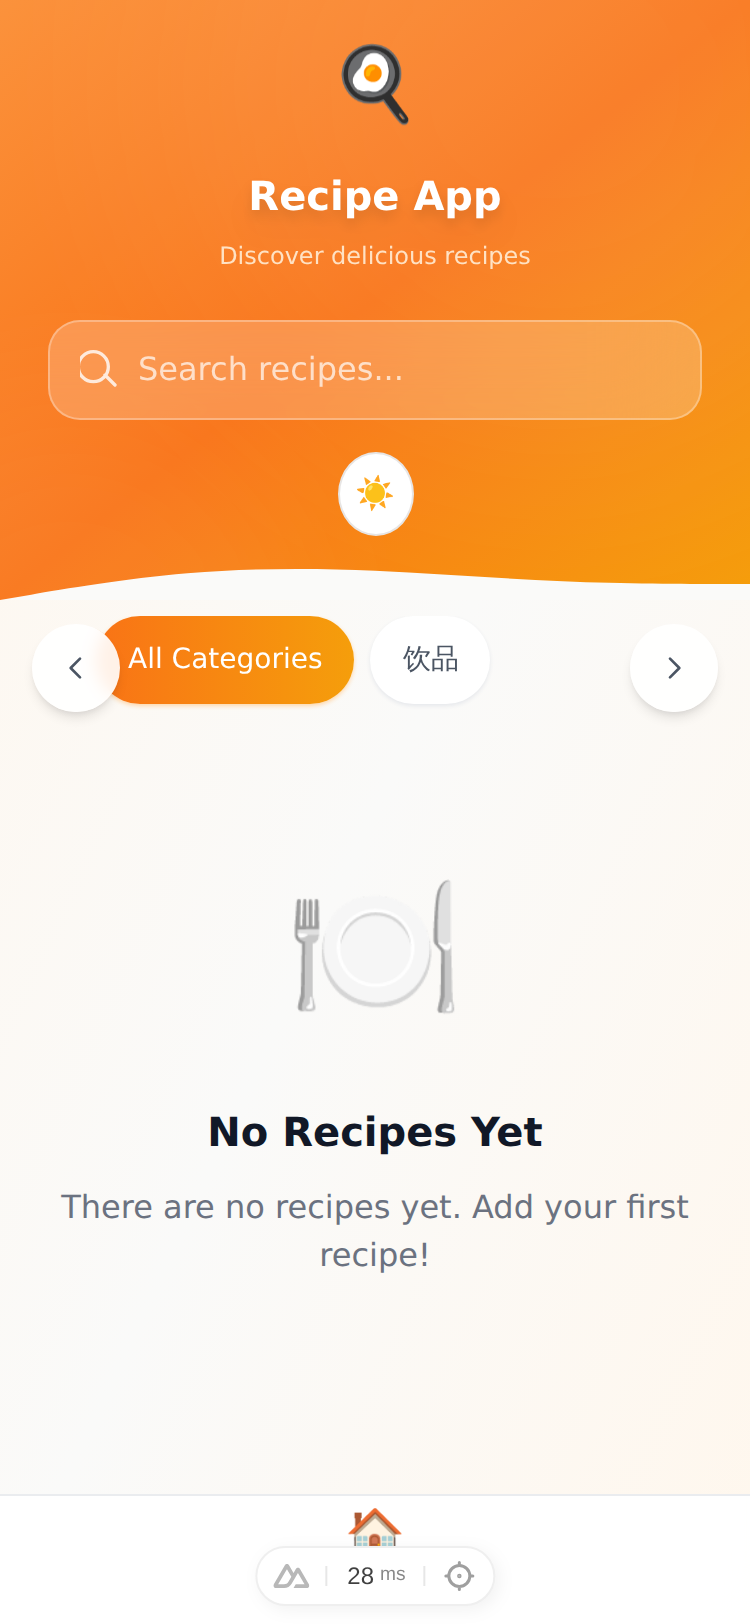
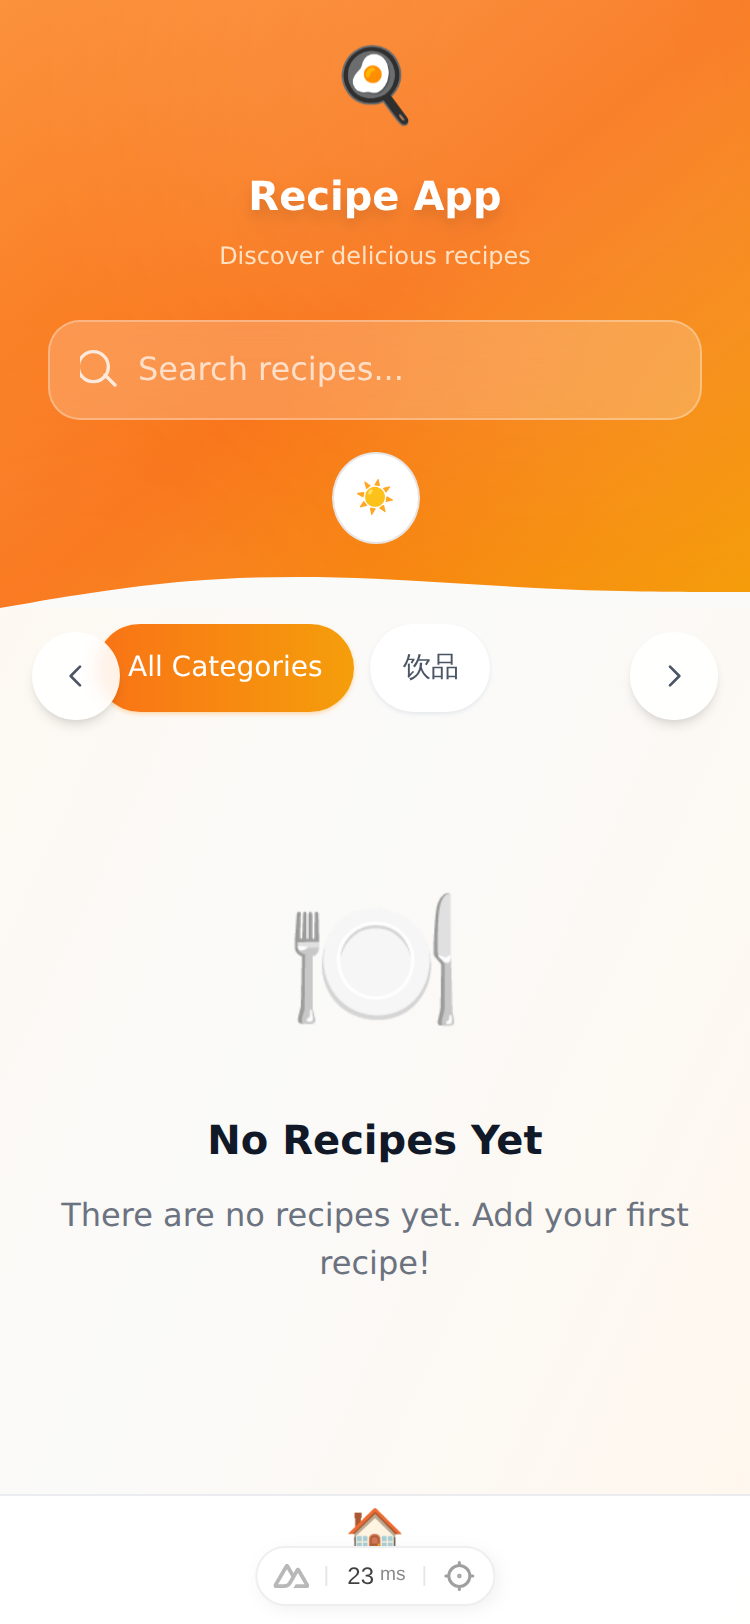
⚠ 完善移动端适配 任务: 完善移动端适配 时间: 2026-03-21 08:30:07 审查: REVIEW_needed 自动提交 by recipe-app-iterator.sh v3.0

diff --git a/web/app/pages/admin/index.vue b/web/app/pages/admin/index.vue
@@ -111,7 +111,7 @@ const difficultyLabel = (difficulty: string) => {
             </NuxtLink>
             <NuxtLink
               :to="localePath('/admin/recipes/new', locale)"
-              class="px-3 py-2 sm:px-4 bg-orange-600 text-white rounded-lg hover:bg-orange-700 transition-colors flex items-center gap-1 sm:gap-2 text-sm sm:text-base"
+              class="min-w-[44px] min-h-[44px] px-3 py-2 sm:px-4 bg-orange-600 text-white rounded-lg hover:bg-orange-700 transition-colors flex items-center justify-center gap-1 sm:gap-2 text-sm sm:text-base active:scale-95 touch-manipulation"
             >
               <span>+</span> <span class="hidden sm:inline">{{ t('admin.addRecipe') }}</span>
             </NuxtLink>
@@ -171,8 +171,9 @@ const difficultyLabel = (difficulty: string) => {
           <p class="text-gray-600">{{ t('admin.noRecipes') }}</p>
         </div>
 
-        <div v-else class="overflow-x-auto">
-          <table class="w-full">
+        <div v-else class="overflow-x-auto -mx-4 md:mx-0">
+          <!-- Desktop Table -->
+          <table class="hidden md:table w-full">
             <thead class="bg-gray-50 border-b border-gray-200">
               <tr>
                 <th class="px-6 py-3 text-left text-xs font-semibold text-gray-600 uppercase tracking-wider">
@@ -271,6 +272,77 @@ const difficultyLabel = (difficulty: string) => {
               </tr>
             </tbody>
           </table>
+
+          <!-- Mobile Card List -->
+          <div class="md:hidden divide-y divide-gray-200">
+            <div
+              v-for="recipe in recipes"
+              :key="recipe.id"
+              class="p-4 hover:bg-gray-50 transition-colors"
+            >
+              <div class="flex items-start gap-3">
+                <input 
+                  type="checkbox" 
+                  :checked="selectedRecipes.includes(recipe.id.toString())"
+                  @change="toggleSelect(recipe.id.toString())"
+                  class="mt-1 w-5 h-5 text-orange-600 rounded focus:ring-orange-500 flex-shrink-0"
+                >
+                <div class="w-16 h-16 bg-gradient-to-br from-orange-100 to-orange-200 rounded-lg overflow-hidden flex-shrink-0">
+                  <img
+                    v-if="recipe.imageUrl"
+                    :src="recipe.imageUrl"
+                    :alt="recipe.title"
+                    class="w-full h-full object-cover"
+                    loading="lazy"
+                  />
+                  <div v-else class="w-full h-full flex items-center justify-center">
+                    <span class="text-2xl">🍽</span>
+                  </div>
+                </div>
+                <div class="flex-1 min-w-0">
+                  <NuxtLink
+                    :to="localePath(`/admin/recipes/${recipe.id}/edit`, locale)"
+                    class="block font-semibold text-gray-900 hover:text-orange-600 transition-colors truncate"
+                  >
+                    {{ recipe.title }}
+                  </NuxtLink>
+                  <div class="flex flex-wrap items-center gap-2 mt-1">
+                    <span class="px-2 py-0.5 bg-blue-50 text-blue-700 rounded-full text-xs font-medium">
+                      {{ recipe.category }}
+                    </span>
+                    <span
+                      :class="[
+                        'px-2 py-0.5 rounded-full text-xs font-semibold uppercase',
+                        difficultyColor(recipe.difficulty)
+                      ]"
+                    >
+                      {{ difficultyLabel(recipe.difficulty) }}
+                    </span>
+                    <span class="text-xs text-gray-500">
+                      {{ recipe.prepTimeMinutes + recipe.cookTimeMinutes }}{{ t('recipe.min') }}
+                    </span>
+                  </div>
+                </div>
+                <div class="flex flex-col gap-1 flex-shrink-0">
+                  <NuxtLink
+                    :to="localePath(`/admin/recipes/${recipe.id}/edit`, locale)"
+                    class="p-2 text-blue-600 hover:bg-blue-50 rounded-lg transition-colors"
+                    :title="t('common.edit')"
+                  >
+                    ✏
+                  </NuxtLink>
+                  <button
+                    @click="handleDelete(recipe.id)"
+                    class="p-2 text-red-600 hover:bg-red-50 rounded-lg transition-colors"
+                    :title="t('common.delete')"
+                    :aria-label="t('common.delete')"
+                  >
+                    🗑
+                  </button>
+                </div>
+              </div>
+            </div>
+          </div>
         </div>
       </div>
     </main>

diff --git a/web/app/pages/recipes/[id].vue b/web/app/pages/recipes/[id].vue
@@ -117,7 +117,7 @@ const totalIngredients = computed(() => recipe.value?.ingredients.length || 0)
         <div class="flex items-center gap-2">
           <button 
             @click="toggleFavorite"
-            class="p-2 rounded-full hover:bg-stone-100 dark:hover:bg-stone-700 transition-colors"
+            class="min-w-[44px] min-h-[44px] flex items-center justify-center rounded-full hover:bg-stone-100 dark:hover:bg-stone-700 transition-colors active:scale-95 touch-manipulation"
             :aria-label="isFavorite ? '取消收藏' : '收藏'"
           >
             <span class="text-xl transition-transform" :class="isFavorite ? 'scale-110' : ''">{{ isFavorite ? '❤' : '🤍' }}</span>

diff --git a/web/app/components/ThemeToggle.vue b/web/app/components/ThemeToggle.vue
@@ -120,8 +120,11 @@ function getCurrentIcon() {
   }
   
   .theme-toggle {
-    padding: 8px;
+    padding: 10px;
     border-radius: 50%;
+    min-width: 44px;
+    min-height: 44px;
+    justify-content: center;
   }
 }
 </style>

diff --git a/web/test_mobile_full_375.py b/web/test_mobile_full_375.py
@@ -1,0 +1,236 @@
+#!/usr/bin/env python3
+"""
+移动端 375px 全面测试脚本
+检查所有主要页面的布局问题
+"""
+
+from playwright.sync_api import sync_playwright
+import os
+
+def check_mobile_375():
+    screenshots_dir = '/root/code/recipe-app/web/screenshots/mobile_375'
+    os.makedirs(screenshots_dir, exist_ok=True)
+    
+    results = {
+        'pages': [],
+        'issues': [],
+        'overflow_elements': []
+    }
+    
+    with sync_playwright() as p:
+        browser = p.chromium.launch(headless=True)
+        
+        # 创建 375px 视口（模拟 iPhone SE）
+        page = browser.new_page(viewport={'width': 375, 'height': 812})
+        
+        # 监听控制台错误
+        console_errors = []
+        page.on('console', lambda msg: console_errors.append(msg.text) if msg.type == 'error' else None)
+        
+        pages_to_test = [
+            {'url': '/en', 'name': 'Homepage', 'path': 'homepage.png'},
+            {'url': '/en/recipes/1', 'name': 'Recipe Detail', 'path': 'recipe_detail.png'},
+            {'url': '/en/admin', 'name': 'Admin Dashboard', 'path': 'admin.png'},
+        ]
+        
+        for page_info in pages_to_test:
+            print(f"\n{'='*60}")
+            print(f"Testing: {page_info['name']} ({page_info['url']})")
+            print('='*60)
+            
+            try:
+                page.goto(f'http://localhost:3000{page_info["url"]}', 
+                         wait_until='networkidle', timeout=30000)
+                page.wait_for_timeout(2000)  # 等待动画完成
+                
+                # 截图
+                screenshot_path = f'{screenshots_dir}/{page_info["path"]}'
+                page.screenshot(path=screenshot_path, full_page=True)
+                print(f"📸 Screenshot saved: {screenshot_path}")
+                
+                # 检查水平溢出
+                overflow_info = page.evaluate('''() => {
+                    const body = document.body;
+                    const html = document.documentElement;
+                    const bodyWidth = Math.max(body.scrollWidth, body.offsetWidth, html.clientWidth, html.scrollWidth, html.offsetWidth);
+                    const windowWidth = window.innerWidth;
+                    
+                    const overflowElements = [];
+                    const allElements = document.querySelectorAll('*');
+                    
+                    allElements.forEach(el => {
+                        const rect = el.getBoundingClientRect();
+                        const style = window.getComputedStyle(el);
+                        
+                        if (rect.right > windowWidth && 
+                            style.display !== 'none' && 
+                            style.visibility !== 'hidden' &&
+                            parseFloat(style.opacity) > 0 &&
+                            rect.width > 0) {
+                            overflowElements.push({
+                                tag: el.tagName,
+                                class: el.className.substring(0, 80),
+                                id: el.id || '',
+                                right: Math.round(rect.right),
+                                width: Math.round(rect.width),
+                                parent: el.parentElement?.tagName || 'unknown'
+                            });
+                        }
+                    });
+                    
+                    return {
+                        bodyWidth,
+                        windowWidth,
+                        hasOverflow: bodyWidth > windowWidth,
+                        overflowElements: overflowElements.slice(0, 10)
+                    };
+                }''')
+                
+                print(f"Window width: {overflow_info['windowWidth']}px")
+                print(f"Body scroll width: {overflow_info['bodyWidth']}px")
+                
+                if overflow_info['hasOverflow']:
+                    print("⚠  HORIZONTAL OVERFLOW DETECTED!")
+                    results['issues'].append({
+                        'page': page_info['name'],
+                        'type': 'overflow',
+                        'details': f"Body width {overflow_info['bodyWidth']}px > Window {overflow_info['windowWidth']}px"
+                    })
+                    results['overflow_elements'].extend([{
+                        'page': page_info['name'],
+                        **elem
+                    } for elem in overflow_info['overflowElements']])
+                    
+                    for elem in overflow_info['overflowElements'][:5]:
+                        print(f"  - {elem['tag']}#{elem['id']} ({elem['class'][:50]}...): right={elem['right']}px")
+                else:
+                    print("✅ No horizontal overflow")
+                
+                # 检查字体大小
+                font_sizes = page.evaluate('''() => {
+                    const elements = document.querySelectorAll('p, span, a, button, h1, h2, h3, h4, h5, h6, li, td, th, input, label');
+                    const smallFonts = [];
+                    
+                    elements.forEach(el => {
+                        const style = window.getComputedStyle(el);
+                        const fontSize = parseFloat(style.fontSize);
+                        
+                        // 检查正文文本是否小于 14px
+                        if (fontSize > 0 && fontSize < 14 && 
+                            style.display !== 'none' && 
+                            style.visibility !== 'hidden' &&
+                            style.display !== 'inline' &&
+                            el.textContent.trim().length > 0) {
+                            smallFonts.push({
+                                tag: el.tagName,
+                                text: el.textContent.trim().substring(0, 40),
+                                fontSize: fontSize,
+                                class: el.className.substring(0, 40)
+                            });
+                        }
+                    });
+                    
+                    return smallFonts.slice(0, 10);
+                }''')
+                
+                if font_sizes:
+                    print(f"⚠  Found {len(font_sizes)} elements with font-size < 14px")
+                    for font in font_sizes[:3]:
+                        print(f"  - {font['tag']}: {font['fontSize']}px - '{font['text'][:30]}...'")
+                
+                # 检查按钮大小（触摸目标）
+                buttons = page.evaluate('''() => {
+                    const btns = document.querySelectorAll('button, a, [role="button"]');
+                    const smallTouchTargets = [];
+                    
+                    btns.forEach(btn => {
+                        const rect = btn.getBoundingClientRect();
+                        const style = window.getComputedStyle(btn);
+                        
+                        if (rect.width > 0 && rect.height > 0 &&
+                            style.display !== 'none' &&
+                            style.visibility !== 'hidden' &&
+                            (rect.width < 44 || rect.height < 44)) {
+                            smallTouchTargets.push({
+                                tag: btn.tagName,
+                                text: btn.textContent.trim().substring(0, 30),
+                                width: Math.round(rect.width),
+                                height: Math.round(rect.height),
+                                class: btn.className.substring(0, 40)
+                            });
+                        }
+                    });
+                    
+                    return smallTouchTargets.slice(0, 10);
+                }''')
+                
+                if buttons:
+                    print(f"⚠  Found {len(buttons)} touch targets < 44x44px")
+                    for btn in buttons[:3]:
+                        print(f"  - {btn['tag']}: {btn['width']}x{btn['height']}px - '{btn['text'][:20]}'")
+                
+                results['pages'].append({
+                    'name': page_info['name'],
+                    'status': 'success',
+                    'overflow': overflow_info['hasOverflow']
+                })
+                
+            except Exception as e:
+                print(f"❌ Error: {e}")
+                results['pages'].append({
+                    'name': page_info['name'],
+                    'status': 'error',
+                    'error': str(e)
+                })
+        
+        # 测试导航菜单
+        print(f"\n{'='*60}")
+        print("Testing Navigation Menu")
+        print('='*60)
+        
+        page.goto('http://localhost:3000/en', wait_until='networkidle')
+        page.wait_for_timeout(1000)
+        
+        # 检查底部导航是否存在
+        bottom_nav = page.locator('nav[role="navigation"]').first
+        if bottom_nav.is_visible():
+            print("✅ Bottom navigation is visible")
+        else:
+            print("⚠  Bottom navigation not visible")
+            results['issues'].append({
+                'page': 'Navigation',
+                'type': 'missing_nav',
+                'details': 'Bottom navigation not found'
+            })
+        
+        # 截取移动端导航截图
+        page.screenshot(path=f'{screenshots_dir}/nav_check.png')
+        print(f"📸 Navigation screenshot: {screenshots_dir}/nav_check.png")
+        
+        browser.close()
+        
+        # 打印汇总
+        print(f"\n{'='*60}")
+        print("SUMMARY")
+        print('='*60)
+        print(f"Pages tested: {len(results['pages'])}")
+        print(f"Pages with overflow: {sum(1 for p in results['pages'] if p.get('overflow'))}")
+        print(f"Total issues: {len(results['issues'])}")
+        
+        if results['issues']:
+            print("\nIssues found:")
+            for issue in results['issues']:
+                print(f"  - [{issue['page']}] {issue['type']}: {issue['details']}")
+        
+        if results['overflow_elements']:
+            print(f"\nOverflow elements ({len(results['overflow_elements'])}):")
+            for elem in results['overflow_elements'][:10]:
+                print(f"  - [{elem['page']}] {elem['tag']}: right={elem['right']}px, class='{elem['class'][:40]}'")
+        
+        return results
+
+if __name__ == '__main__':
+    print("🔍 Starting Mobile 375px Test")
+    print("="*60)
+    results = check_mobile_375()
+    print("\n✅ Test completed!")

diff --git a/.recipe-iteration-tasks.md b/.recipe-iteration-tasks.md
@@ -375,7 +375,7 @@
   - 添加时间: 2026-03-21 07:42
   - 来源: Agent Team
 
-→ [20260321082001-2700005-bb9n] 🟡 **优化页面加载性能**
+- [x] 🟡 **优化页面加载性能**
   - 描述: 分析并优化首屏加载速度
   - 添加时间: 2026-03-21 07:58
   - 来源: Agent Team
@@ -385,7 +385,7 @@
   - 添加时间: 2026-03-21 07:58
   - 来源: Agent Team
 
-- [ ] 🟡 **完善移动端适配**
+→ [20260321082501-2705036-lh3y] 🟡 **完善移动端适配**
   - 描述: 测试并优化移动端布局
   - 添加时间: 2026-03-21 07:58
   - 来源: Agent Team

diff --git a/.recipe-iterator-memory.md b/.recipe-iterator-memory.md
@@ -6,3 +6,6 @@
 
 ## 完成记录 2026-03-21 08:08
 - 完善移动端适配
+
+## 完成记录 2026-03-21 08:23
+- 优化页面加载性能
